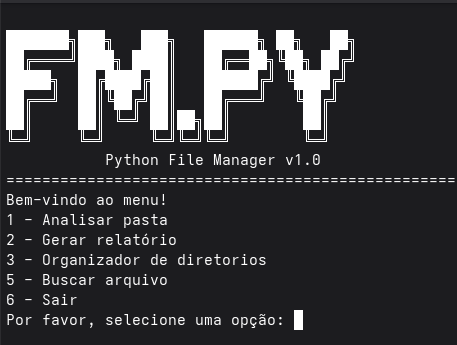
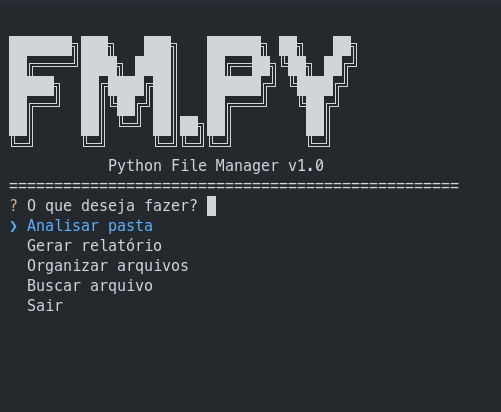
feat: Enhance menu interface with InquirerPy for better user interaction

diff --git a/main.py b/main.py
@@ -1,5 +1,6 @@
 import os
 import time
+from InquirerPy import inquirer
 from scanner import scan_directory
 from reports import generate_report
 from organizer import organize_directory
@@ -30,14 +31,16 @@ def pause():
 
 def menu():
     banner()
-    print("Bem-vindo ao menu!")
-    print("1 - Analisar pasta ")
-    print("2 - Gerar relatório")
-    print("3 - Organizador de diretorios")
-    print("5 - Buscar arquivo")
-    print("6 - Sair")
-    input_option = input("Por favor, selecione uma opção: ")
-    return input_option
+    option = inquirer.select(
+    message="O que deseja fazer?",
+    choices=[
+        "Analisar pasta",
+        "Gerar relatório",
+        "Organizar arquivos",
+        "Buscar arquivo",
+        "Sair"
+    ],).execute()
+    return option
 
 def analyze_directory_option():
     directory_count, files_count, total_size, largest_file, largest_size = analyze_path()
@@ -49,8 +52,8 @@ def analyze_directory_option():
     print(f"Maior arquivo: {largest_file}")
     print(f"Tamanho do maior arquivo: {format_size(largest_size)}")
 
-    report = input("\nGerar relatório? (s/n): ")
-    if report.lower() in ["s", "sim"]:
+    report = inquirer.confirm(message="Gerar relatório?", default=True).execute()
+    if report:
         generate_report(directory_count, files_count, total_size, largest_file, largest_size )
     pause()
 
@@ -91,15 +94,15 @@ def main():
             clean_terminal()
             option = menu()
             match option:
-                case "1":
+                case "Analisar pasta":
                     analyze_directory_option()
-                case "2":
+                case "Gerar relatório":
                     generate_report_option()
-                case "3":
+                case "Organizar arquivos":
                     organize_directory_option()
-                case "5":
+                case "Buscar arquivo":
                     search_file_option()
-                case "6":
+                case "Sair":
                     print("Saindo do programa...")
                     time.sleep(0.3)
                     clean_terminal()
@@ -113,6 +116,7 @@ def main():
         except Exception as e:
             print(f"\nErro inesperado: {e}")
             pause()
+            break
 
 if __name__ == "__main__":
     main()

diff --git a/README.md b/README.md
@@ -231,7 +231,6 @@ Durante o desenvolvimento foram utilizados:
 * Identificação de arquivos duplicados.
 * Backup automático antes da organização.
 * Exportação de relatórios em CSV.
-* Interface gráfica.
 * Testes automatizados.
 
 ---